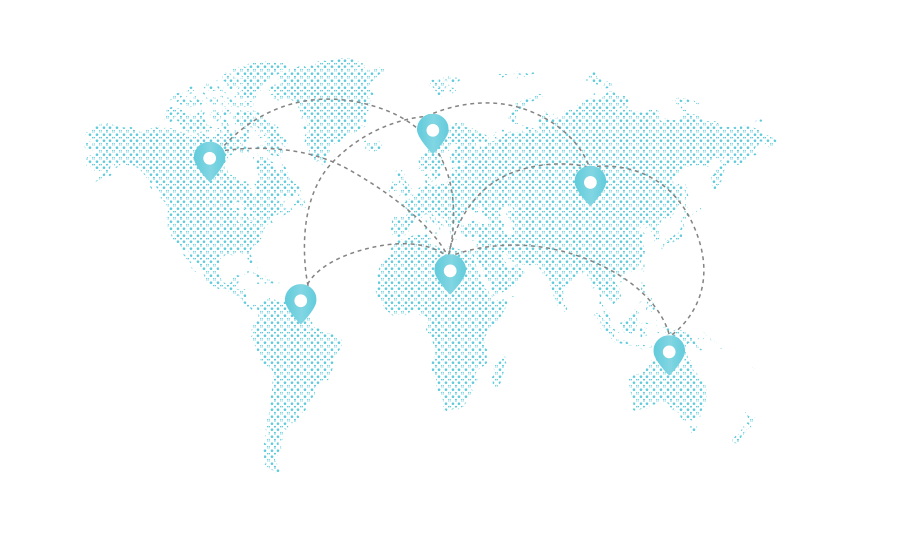
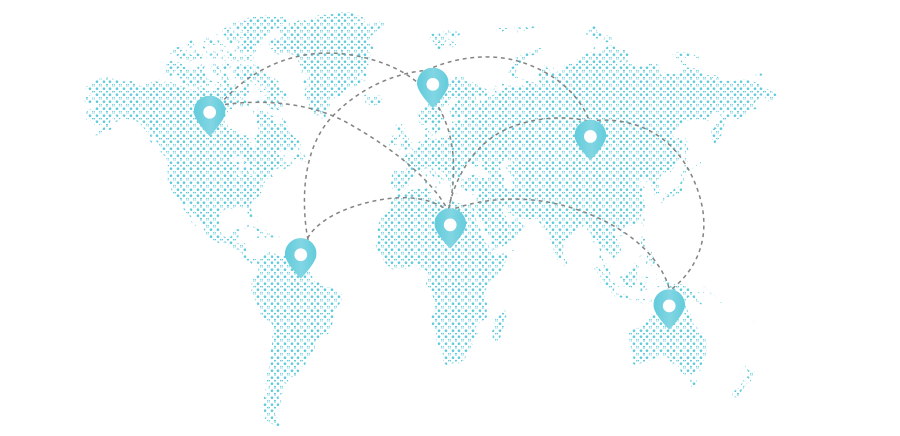
updated

Changed region(s): [[0.0933, 0.0298, 0.8711, 0.9839], [0.4978, 0.1193, 0.5911, 0.1491], [0.4667, 0.0894, 0.4978, 0.1193]]

diff --git a/layouts/partials/widgets/map.html b/layouts/partials/widgets/map.html
@@ -3,11 +3,11 @@
 {{ $class := .class }}
 {{ $bodyClass := .bodyClass }}
 
-<section class="section" >
+<section class="section pt-2" >
     <div class="container">
         {{ if or  .title .subtitle }}
         <div class="row">
-            <div class="col section-heading text-center mb-5">
+            <div class="col section-heading text-center mb-3">
                 <h2>{{.title | markdownify }}</h2>
                 <div>{{ .subtitle  | safeHTML}}</div>
             </div>
@@ -17,7 +17,7 @@
             <div class="col-12 {{ $bodyClass }}">
               
                 <!-- RH: this is bootstrap 5 tabbed panel -->
-            <ul class="nav nav-tabs mb-5 pb-5 map-tab justify-content-center" id="myTab" role="tablist">
+            <ul class="nav nav-tabs mb-1 pb-0 map-tab justify-content-center" id="myTab" role="tablist">
                 {{ range $i, $data := .itemlists }}
                     <li class="nav-item" role="presentation">
                         <a class="nav-link {{ if eq $i 0}}  active {{ end }}" id='{{ replace .country " " "-" | lower }}-tab' data-bs-toggle="tab" href='#{{ replace .country " " "-" | lower }}' role="tab" aria-controls='{{ replace .country " " "-" | lower }}' aria-selected="{{ if eq $i 0}}  true {{else }} false {{ end }}">
@@ -26,18 +26,16 @@
                     </li>
                 {{end}}
             </ul>
-            <div class="map py-5 body-content d-flex justify-content-cemeter align-items-center">
-                <div class="tab-content my-5" id="myTabContent" >
-                    <img src="{{.bgImage}}" alt="map" class="img-fluid">
-
+            <div class="map py-3 pt-0 body-content d-flex justify-content-cemeter align-items-center">
+                <div class="tab-content my-2 mt-0 w-100" id="myTabContent" >
+                    <div class="text-center">
+                        <img src="{{.bgImage}}" alt="map" class="img-fluid">
+                    </div>                    
                     {{ range $i, $data := .itemlists }}
                     <div class="tab-pane fade {{ if eq $i 0}} show active {{ end }} bg-white px-4 py-2" id='{{ replace .country " " "-" | lower }}' role="tabpanel" aria-labelledby='{{ replace .country " " "-" | lower }}-tab'>{{.content }}
-                        <ul class="item-square">
-                        
-                            <li>{{.name}}</li>
-                        
-                    </ul>
-                    
+                        <ul class="item-square">                        
+                            <li>{{.name}}</li>                        
+                        </ul>                    
                     </div>
 
                     {{end}}

diff --git a/content/our-clients.md b/content/our-clients.md
@@ -22,7 +22,7 @@ widgets:
   before:
     - enable: true
       type: full-width
-      class: our-client
+      class: our-client pb-2
       title: Our Clients
       subtitle: >-
         ITO33 has clients spanning the major financial centers of the world. <br>
@@ -35,7 +35,7 @@ widgets:
         and our customer support with responsiveness and expertise. Don't take our word for it, though.    
         
         Here's what some of them had to say.
-      bodyClass: "text-center mt-5 color-text"
+      bodyClass: "text-center mt-5 color-text "
     - enable: true
       type: map
       class: map
